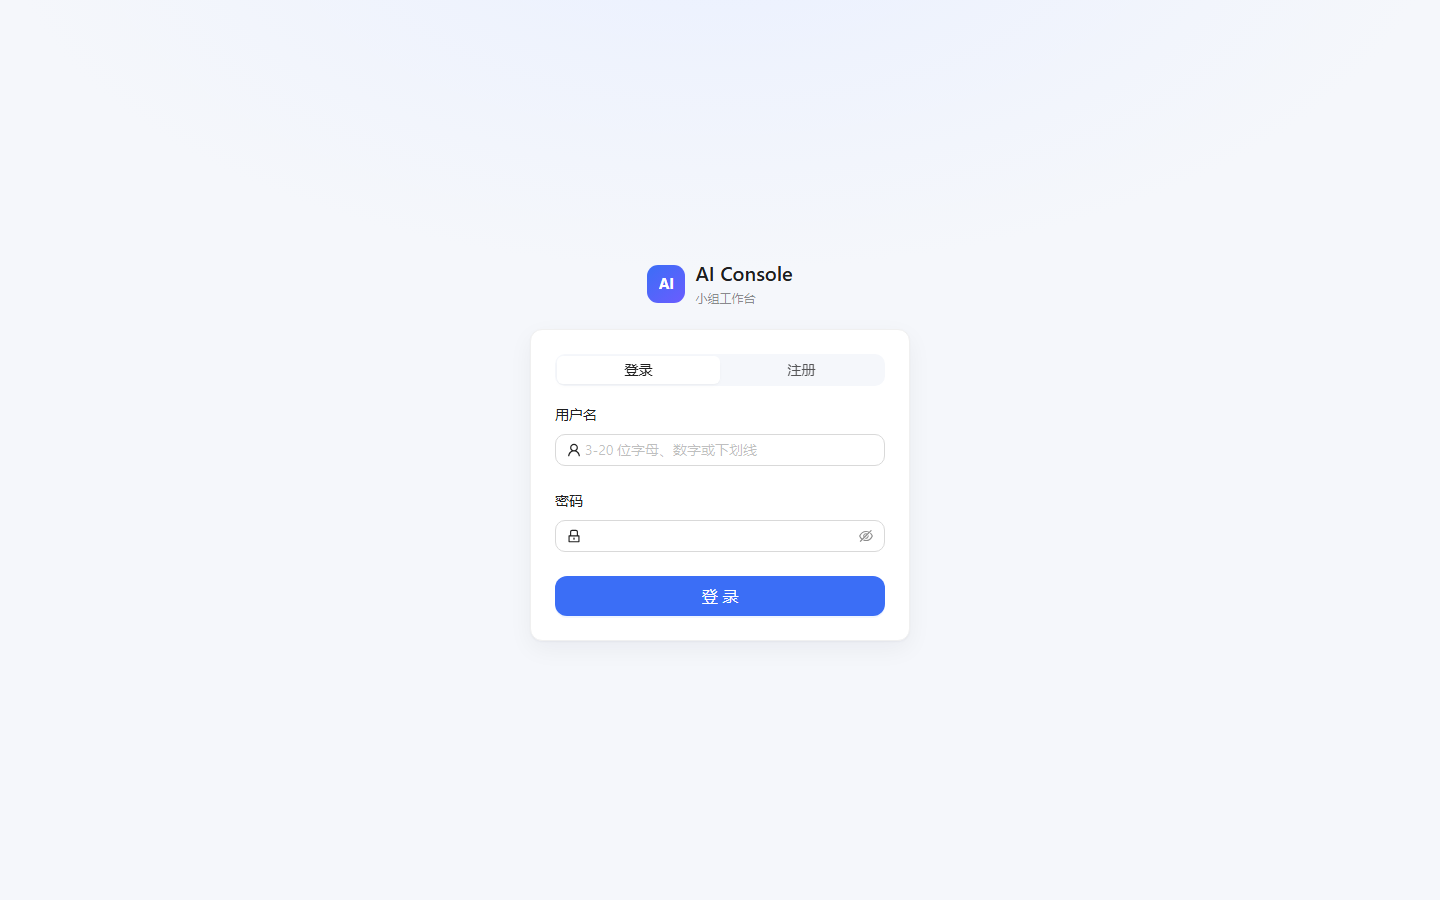
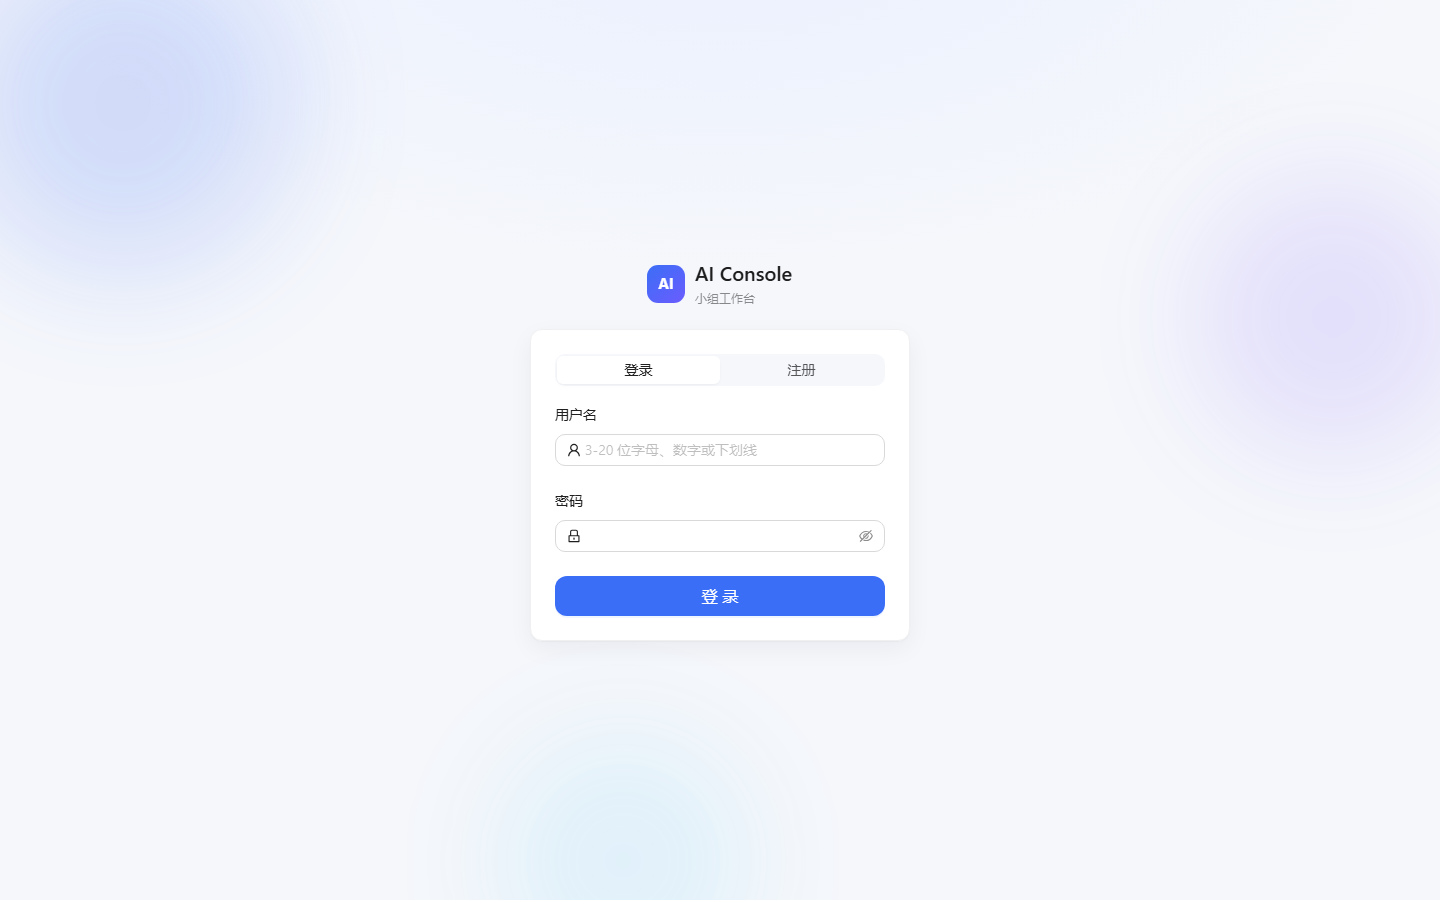
feat: 登录页动效 + 上游错误翻译
- 背景三团渐变光斑缓慢漂浮，卡片与标题分层淡入上移
- 登录成功播 900ms 过场：卡片淡出、双环扩散、logo 弹入、欢迎语
- 尊重 prefers-reduced-motion，关闭动画
- ?enter=1 可预览过场（1.6s 后自动收起）
- 上游 4xx/5xx 不再把原始 JSON 甩给用户：429 显示「调用太频繁」，401 显示「Key 无效」等，详情只写服务端日志

Changed region(s): [[0.0, 0.0, 0.1875, 0.28], [0.4688, 0.28, 0.5625, 0.3422]]

diff --git a/src/styles/global.css b/src/styles/global.css
@@ -2467,3 +2467,201 @@ html[data-theme='dark'] .alert-banner {
   margin-right: 4px;
   font-size: 12px;
 }
+
+
+/* ---- 登录页动效 ---- */
+
+.auth-page {
+  position: relative;
+  overflow: hidden;
+}
+
+.auth-blobs {
+  position: absolute;
+  inset: 0;
+  pointer-events: none;
+  z-index: 0;
+}
+
+.blob {
+  position: absolute;
+  border-radius: 50%;
+  filter: blur(60px);
+  opacity: 0.55;
+  animation: blobFloat 18s ease-in-out infinite;
+}
+
+.blob-1 {
+  width: 320px;
+  height: 320px;
+  left: -60px;
+  top: -40px;
+  background: rgba(59, 110, 246, 0.35);
+}
+
+.blob-2 {
+  width: 280px;
+  height: 280px;
+  right: -50px;
+  top: 18%;
+  background: rgba(124, 92, 255, 0.28);
+  animation-delay: -6s;
+}
+
+.blob-3 {
+  width: 240px;
+  height: 240px;
+  left: 35%;
+  bottom: -80px;
+  background: rgba(59, 196, 246, 0.22);
+  animation-delay: -12s;
+}
+
+@keyframes blobFloat {
+  0%,
+  100% {
+    transform: translate3d(0, 0, 0) scale(1);
+  }
+  33% {
+    transform: translate3d(24px, -18px, 0) scale(1.06);
+  }
+  66% {
+    transform: translate3d(-18px, 16px, 0) scale(0.96);
+  }
+}
+
+.auth-brand,
+.auth-card {
+  position: relative;
+  z-index: 1;
+}
+
+.auth-brand {
+  animation: riseIn 0.5s cubic-bezier(0.22, 1, 0.36, 1) both;
+}
+
+.auth-rise {
+  animation: riseIn 0.55s cubic-bezier(0.22, 1, 0.36, 1) both;
+}
+
+@keyframes riseIn {
+  from {
+    opacity: 0;
+    transform: translateY(14px) scale(0.985);
+  }
+  to {
+    opacity: 1;
+    transform: translateY(0) scale(1);
+  }
+}
+
+/* 提交成功后的过场：卡片淡出、圆环扩散、logo 弹出 */
+.auth-page.is-entering .auth-card,
+.auth-page.is-entering .auth-brand {
+  animation: fadeOut 0.35s ease forwards;
+}
+
+@keyframes fadeOut {
+  to {
+    opacity: 0;
+    transform: translateY(-10px) scale(0.98);
+    filter: blur(2px);
+  }
+}
+
+.enter-overlay {
+  position: fixed;
+  inset: 0;
+  z-index: 20;
+  display: flex;
+  flex-direction: column;
+  align-items: center;
+  justify-content: center;
+  gap: 18px;
+  background: radial-gradient(circle at 50% 45%, rgba(59, 110, 246, 0.16), transparent 55%),
+    var(--bg, #f6f8fc);
+  animation: fadeIn 0.25s ease both;
+}
+
+@keyframes fadeIn {
+  from {
+    opacity: 0;
+  }
+  to {
+    opacity: 1;
+  }
+}
+
+.enter-ring {
+  position: absolute;
+  width: 120px;
+  height: 120px;
+  border-radius: 50%;
+  border: 2px solid rgba(59, 110, 246, 0.6);
+  animation: ringOut 1.1s cubic-bezier(0.22, 1, 0.36, 1) forwards;
+}
+
+.enter-ring-delay {
+  animation-delay: 0.18s;
+  border-color: rgba(124, 92, 255, 0.45);
+}
+
+@keyframes ringOut {
+  0% {
+    transform: scale(0.6);
+    opacity: 0.9;
+  }
+  100% {
+    transform: scale(3.4);
+    opacity: 0;
+  }
+}
+
+.enter-logo {
+  width: 64px;
+  height: 64px;
+  border-radius: 18px;
+  display: grid;
+  place-items: center;
+  color: #fff;
+  font-weight: 700;
+  font-size: 24px;
+  background: linear-gradient(140deg, #3b6ef6, #6b5cff);
+  box-shadow: 0 18px 40px rgba(59, 110, 246, 0.35);
+  animation: logoPop 0.65s cubic-bezier(0.22, 1.4, 0.36, 1) both;
+}
+
+@keyframes logoPop {
+  0% {
+    transform: scale(0.4) rotate(-8deg);
+    opacity: 0;
+  }
+  60% {
+    transform: scale(1.08) rotate(2deg);
+    opacity: 1;
+  }
+  100% {
+    transform: scale(1) rotate(0);
+    opacity: 1;
+  }
+}
+
+.enter-text {
+  font-size: 14px;
+  color: var(--muted);
+  letter-spacing: 0.5px;
+  animation: riseIn 0.45s ease 0.3s both;
+}
+
+@media (prefers-reduced-motion: reduce) {
+  .blob,
+  .auth-brand,
+  .auth-rise,
+  .enter-ring,
+  .enter-logo,
+  .enter-text,
+  .auth-page.is-entering .auth-card,
+  .auth-page.is-entering .auth-brand {
+    animation: none !important;
+  }
+}

diff --git a/src/features/auth/LoginPage.tsx b/src/features/auth/LoginPage.tsx
@@ -51,10 +51,13 @@ export function LoginPage() {
   const register = useAuthStore((s) => s.register);
   const pending = useAuthStore((s) => s.pending);
   const error = useAuthStore((s) => s.error);
+  const user = useAuthStore((s) => s.user);
   const [mode, setMode] = useState<'login' | 'register'>('login');
   const [captcha, setCaptcha] = useState<Captcha | null>(null);
   const [captchaLoading, setCaptchaLoading] = useState(false);
   const [password, setPassword] = useState('');
+  /** 登录成功后的过场：先播 900ms 动画，再跳走 */
+  const [entering, setEntering] = useState<string | null>(null);
   const [form] = Form.useForm<LoginValues>();
 
   const loadCaptcha = useCallback(async () => {
@@ -74,6 +77,14 @@ export function LoginPage() {
     if (mode === 'register' && !captcha) void loadCaptcha();
   }, [mode, captcha, loadCaptcha]);
 
+  // ?enter=1 直接预览过场动画，方便调样式和截图
+  useEffect(() => {
+    if (new URLSearchParams(window.location.search).get('enter') !== '1') return;
+    setEntering(user?.displayName ?? '陈鹏宇');
+    const timer = window.setTimeout(() => setEntering(null), 1600);
+    return () => window.clearTimeout(timer);
+  }, [user?.displayName]);
+
   const submit = async (values: LoginValues) => {
     try {
       if (mode === 'login') {
@@ -87,7 +98,12 @@ export function LoginPage() {
 
       await useGroupStore.getState().fetchGroups();
       const hasGroup = useGroupStore.getState().groups.length > 0;
-      navigate(hasGroup ? '/overview' : '/groups', { replace: true });
+
+      const name = useAuthStore.getState().user?.displayName ?? '';
+      setEntering(name);
+      window.setTimeout(() => {
+        navigate(hasGroup ? '/overview' : '/groups', { replace: true });
+      }, 900);
     } catch {
       // 验证码一次性，失败后换一张，避免用户对着同一个死码反复输
       if (mode === 'register') void loadCaptcha();
@@ -95,7 +111,13 @@ export function LoginPage() {
   };
 
   return (
-    <div className="auth-page">
+    <div className={entering === null ? 'auth-page' : 'auth-page is-entering'}>
+      <div className="auth-blobs" aria-hidden="true">
+        <span className="blob blob-1" />
+        <span className="blob blob-2" />
+        <span className="blob blob-3" />
+      </div>
+
       <div className="auth-brand">
         <span className="auth-logo">AI</span>
         <div>
@@ -108,7 +130,7 @@ export function LoginPage() {
         </div>
       </div>
 
-      <Card className="auth-card">
+      <Card className="auth-card auth-rise" style={{ animationDelay: '80ms' }}>
         <Segmented
           block
           value={mode}
@@ -222,7 +244,14 @@ export function LoginPage() {
             </>
           )}
 
-          <Button type="primary" htmlType="submit" block loading={pending} size="large">
+          <Button
+            type="primary"
+            htmlType="submit"
+            block
+            loading={pending}
+            size="large"
+            disabled={entering !== null}
+          >
             {mode === 'login' ? '登录' : '注册并进入'}
           </Button>
 
@@ -236,6 +265,17 @@ export function LoginPage() {
           )}
         </Form>
       </Card>
+
+      {entering !== null && (
+        <div className="enter-overlay" role="status" aria-live="polite">
+          <span className="enter-ring" />
+          <span className="enter-ring enter-ring-delay" />
+          <span className="enter-logo">AI</span>
+          <span className="enter-text">
+            欢迎回来{entering ? `，${entering}` : ''}
+          </span>
+        </div>
+      )}
     </div>
   );
 }
